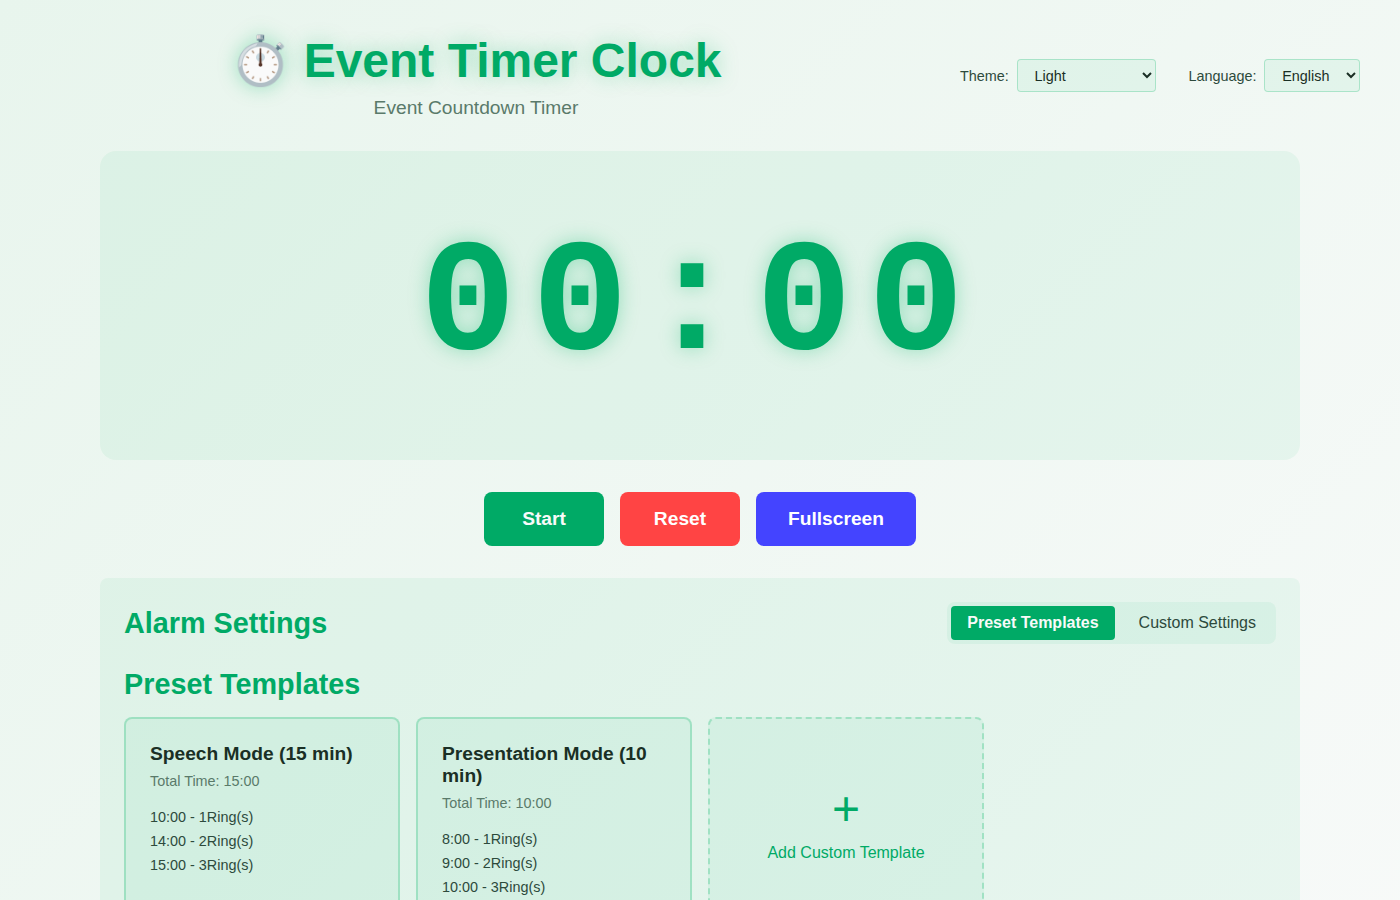
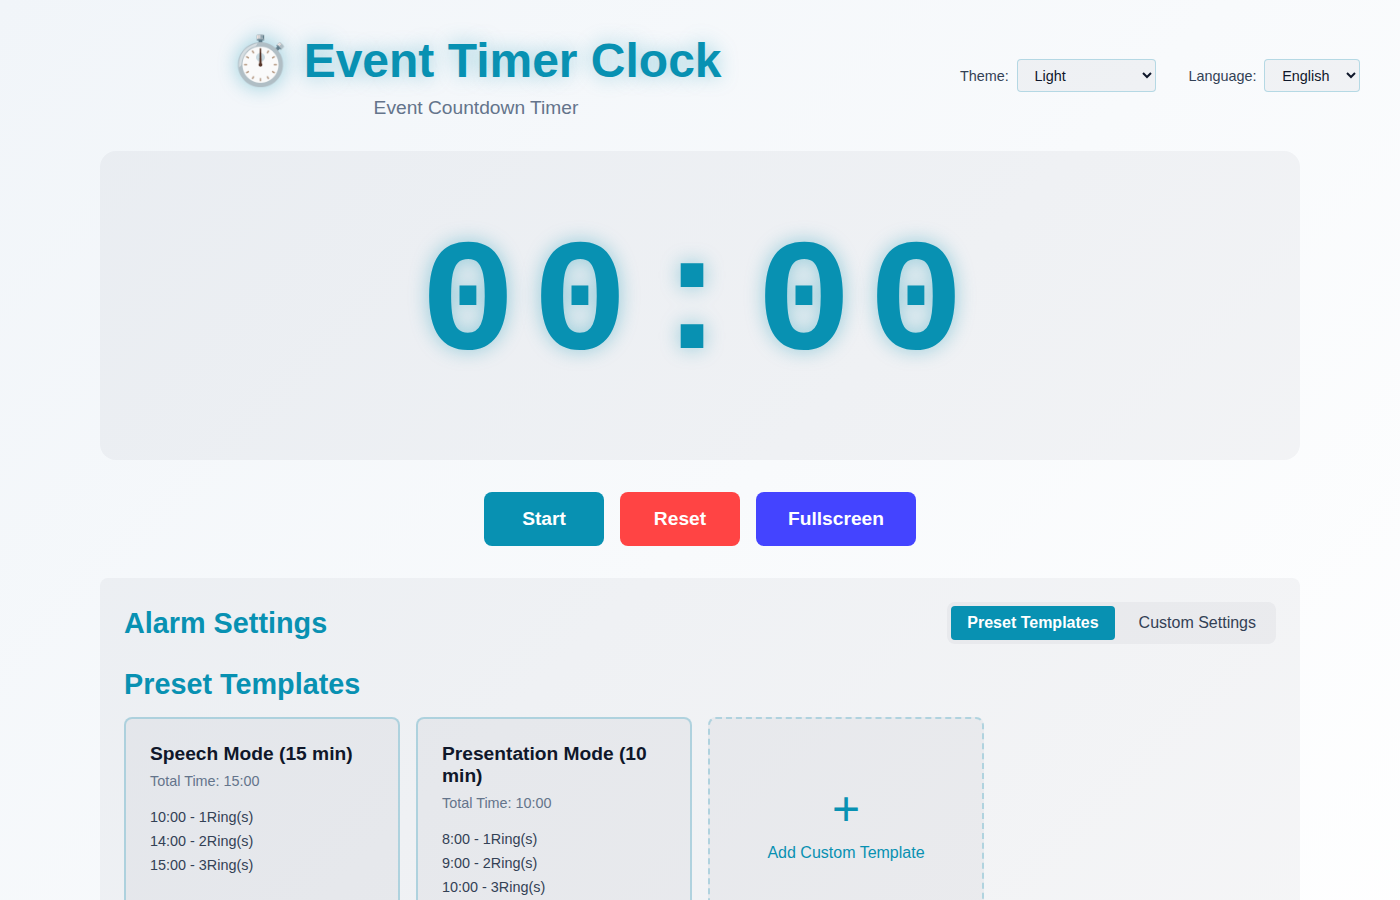
Redesign light mode with cyan/teal color scheme

diff --git a/src/style.css b/src/style.css
@@ -26,24 +26,24 @@
 
 /* Light theme */
 :root.light-theme {
-  --primary-color: #00aa66;
-  --bg-primary: #f8faf9;
-  --bg-secondary: #e8f5ed;
-  --bg-card: rgba(0, 180, 100, 0.06);
-  --text-primary: #1a2f25;
-  --text-secondary: #2d4a3c;
-  --text-tertiary: #5a7a6a;
-  --border-color: rgba(0, 180, 100, 0.25);
+  --primary-color: #0891b2;
+  --bg-primary: #ffffff;
+  --bg-secondary: #f1f5f9;
+  --bg-card: rgba(15, 23, 42, 0.04);
+  --text-primary: #0f172a;
+  --text-secondary: #334155;
+  --text-tertiary: #64748b;
+  --border-color: rgba(8, 145, 178, 0.25);
   --border-hover: var(--primary-color);
-  --shadow-color: rgba(0, 100, 60, 0.12);
-  --primary-shadow: rgba(0, 180, 100, 0.35);
-  --primary-shadow-light: rgba(0, 180, 100, 0.2);
-  --scrollbar-bg: rgba(0, 100, 60, 0.08);
-  --scrollbar-thumb: rgba(0, 180, 100, 0.35);
-  --scrollbar-thumb-hover: rgba(0, 180, 100, 0.5);
-  --error-color: #cc2222;
-  --error-bg: rgba(200, 50, 50, 0.15);
-  --info-color: #2266cc;
+  --shadow-color: rgba(15, 23, 42, 0.08);
+  --primary-shadow: rgba(8, 145, 178, 0.4);
+  --primary-shadow-light: rgba(8, 145, 178, 0.2);
+  --scrollbar-bg: rgba(15, 23, 42, 0.06);
+  --scrollbar-thumb: rgba(8, 145, 178, 0.35);
+  --scrollbar-thumb-hover: rgba(8, 145, 178, 0.5);
+  --error-color: #dc2626;
+  --error-bg: rgba(220, 38, 38, 0.12);
+  --info-color: #2563eb;
 }
 
 * {
